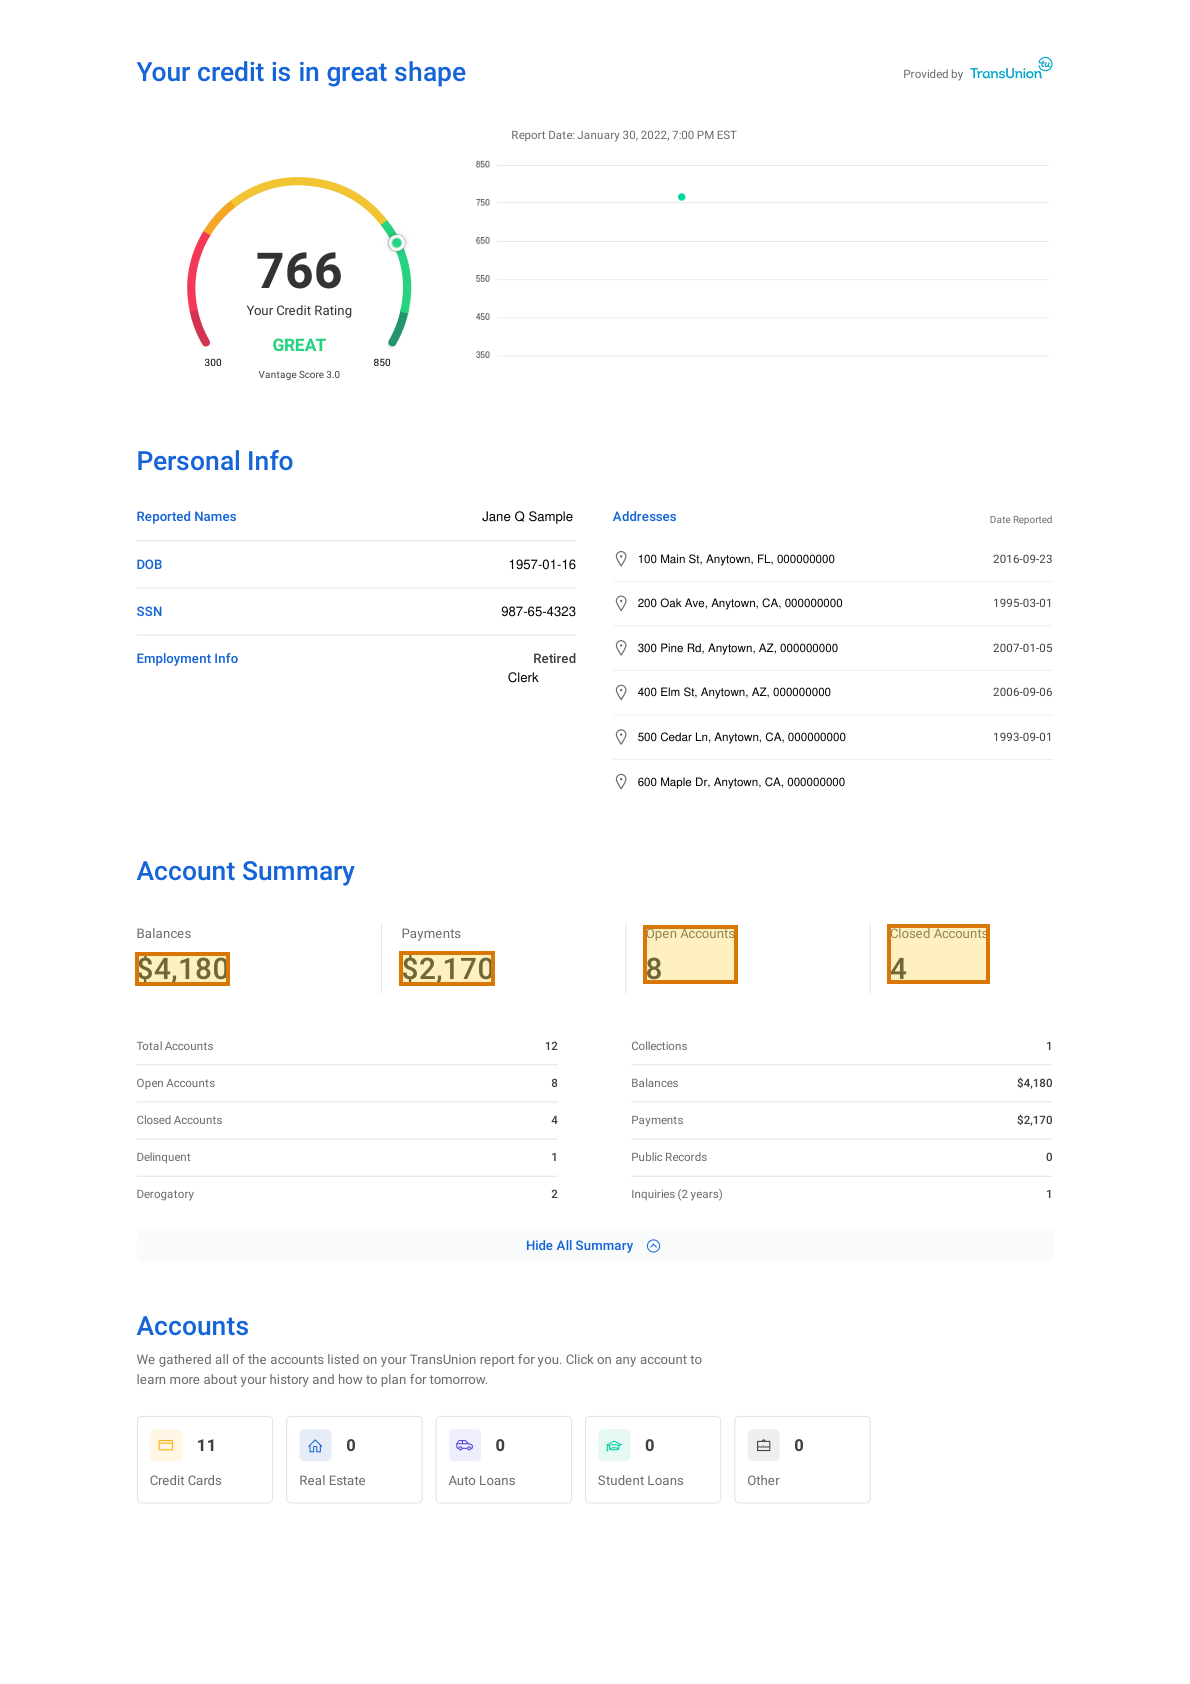
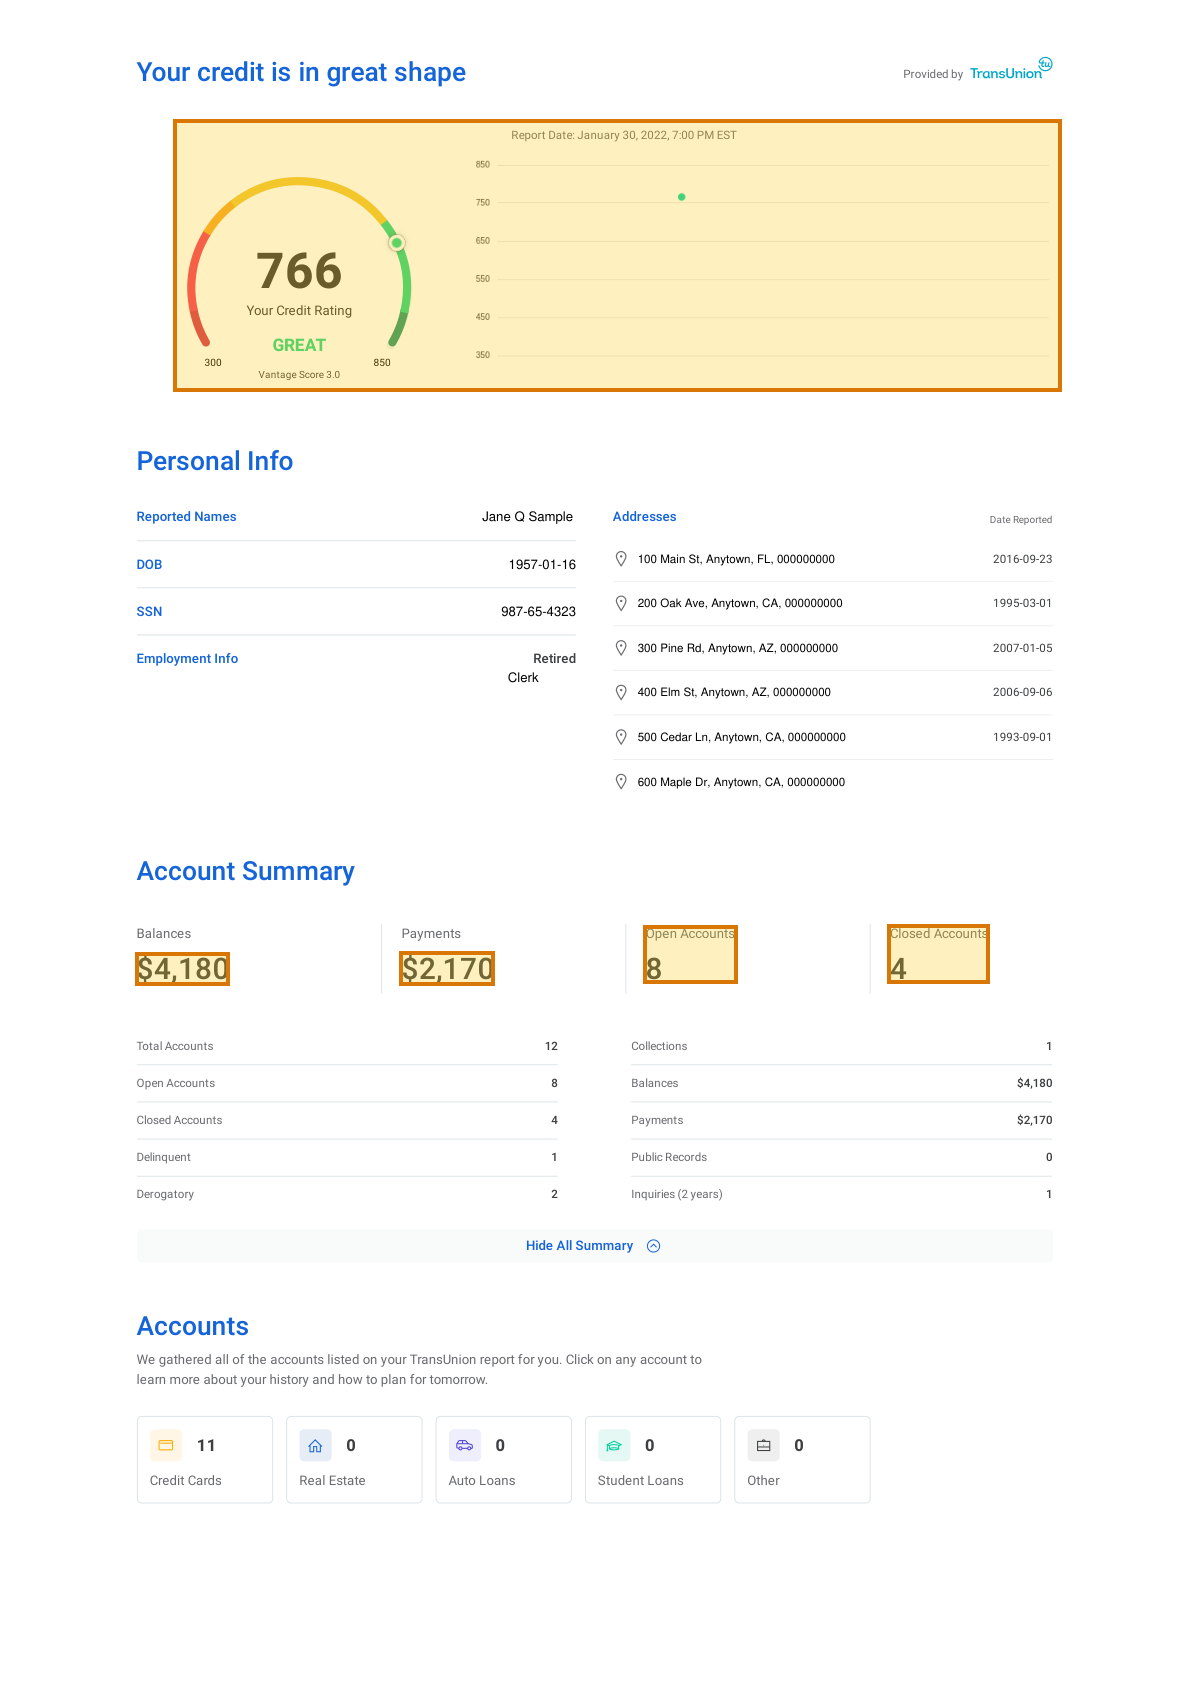
Feature the credit score on the credit report
Adds the 766 score to the featured fields at the document owner's
decision. It grounds to the whole chart figure, since the extracted
range points one cell off in the parse's chart table; the manifest and
README record this.

Changed region(s): [[0.1244, 0.0618, 0.9017, 0.247]]

diff --git a/document-types/collection/credit-report/README.md b/document-types/collection/credit-report/README.md
@@ -61,19 +61,22 @@ The collection's first **credit report**, and a web page rather than a form:
 - **Many repeated records.** Eleven tradelines, each with the same fifteen fields, across
   six pages, plus a collection account in a different layout.
 
-## Featured fields: the account summary tiles
+## Featured fields: the score and the account summary tiles
 
 All on page 1. The request named no fields, so these were chosen:
 
 | Field | Value |
 |---|---|
+| Credit score | 766 |
 | Total balances | $4,180 |
 | Monthly payments | $2,170 |
 | Open accounts | 8 |
 | Closed accounts | 4 |
 
-The four headline tiles, the part of the report an underwriter reads first, and all
-impersonal. Each value is printed twice; occurrence 1 is the tile, and each box takes in
+The score and the four headline tiles, the part of the report an underwriter reads
+first, and all impersonal. The score's box is loose and its grounding is flagged; see
+below. It is featured at the document owner's decision, because it is the value anyone
+opening a credit report looks for first. Each value is printed twice; occurrence 1 is the tile, and each box takes in
 the small label above the figure. The identity block on the same page grounds cleanly but
 is stand-in data and is not featured.
 
@@ -90,9 +93,14 @@ and not to compute them, fixed both.
 credit card with status Charge Off, under collections as well as among the accounts. A
 description saying that collections are the accounts in the Collections section fixed it.
 
-**The score cannot be illustrated.** 766, the rating GREAT and the 300–850 scale are
-printed inside the gauge graphic. Extraction reads them correctly, but grounds them to the
-chart's data-point labels rather than to the figures, so they cannot be featured.
+**The score grounds to the whole chart.** 766, the rating GREAT and the 300–850 scale
+are drawn inside the gauge graphic. The parse turns the chart into a small data table
+(score model / 766, Rating / GREAT, Range / 300–850), and extraction reads every value
+correctly, but its range for the score points one cell off, at the Rating label. The table
+has no box of its own, so the highlight falls back to the whole chart: gauge, line chart
+and report date. 766 is plainly inside it and the crop reads as right, but
+`build_images.py` warns that the value is not in the boxed text, and the box is about
+twenty times the area of the tiles'. Featured anyway, at the document owner's decision.
 
 **The tradelines extract completely.** All eleven accounts come back with every balance,
 limit, high balance, account number, status, late-payment count and remark matching the
